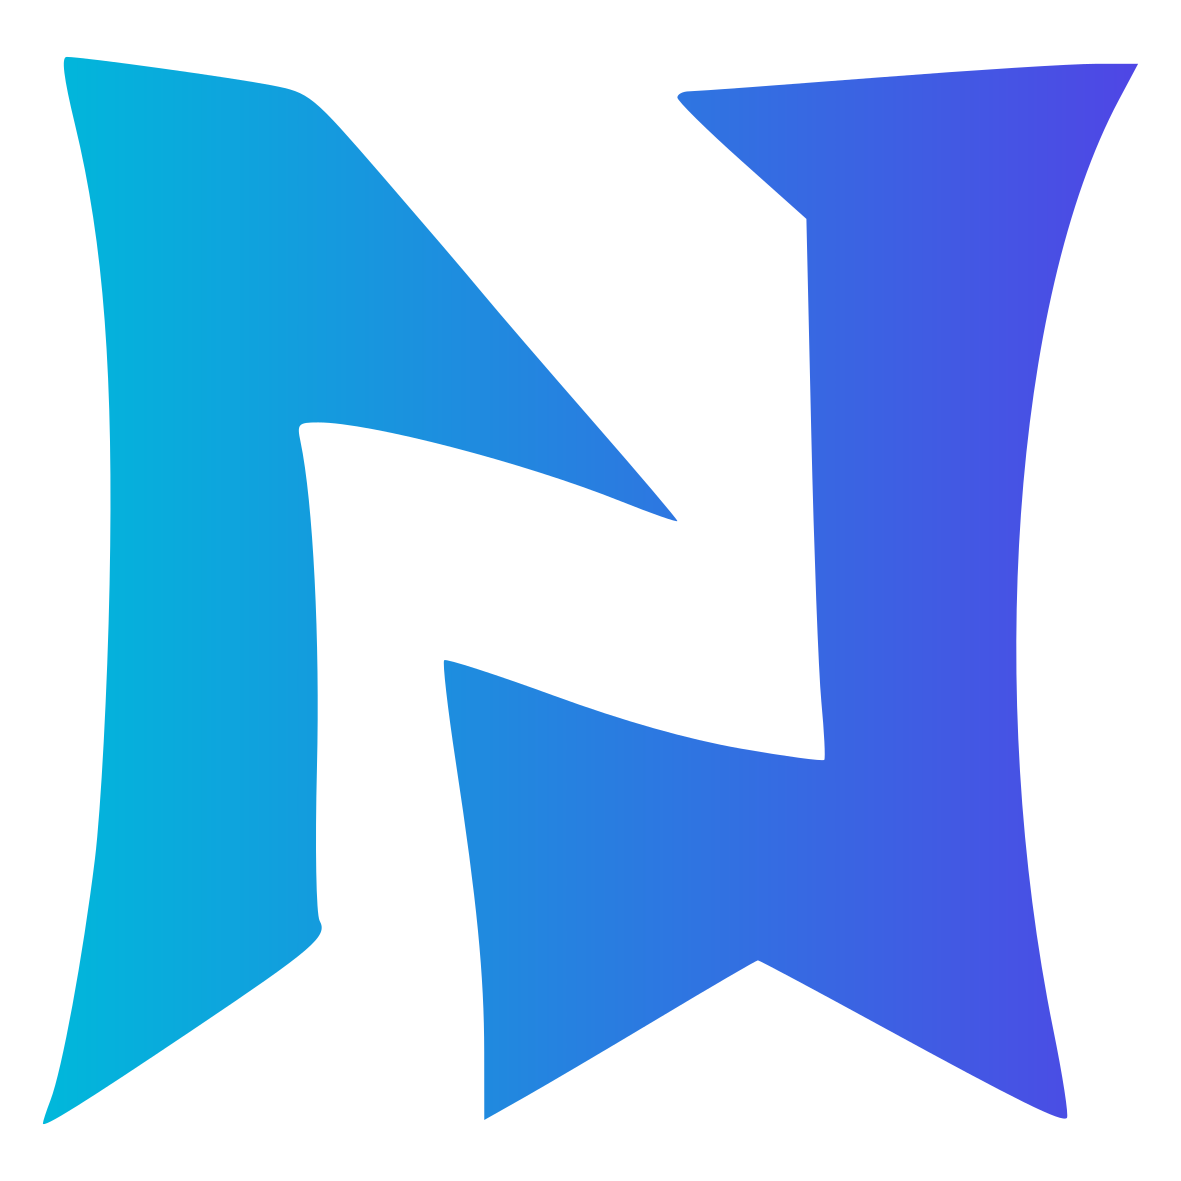
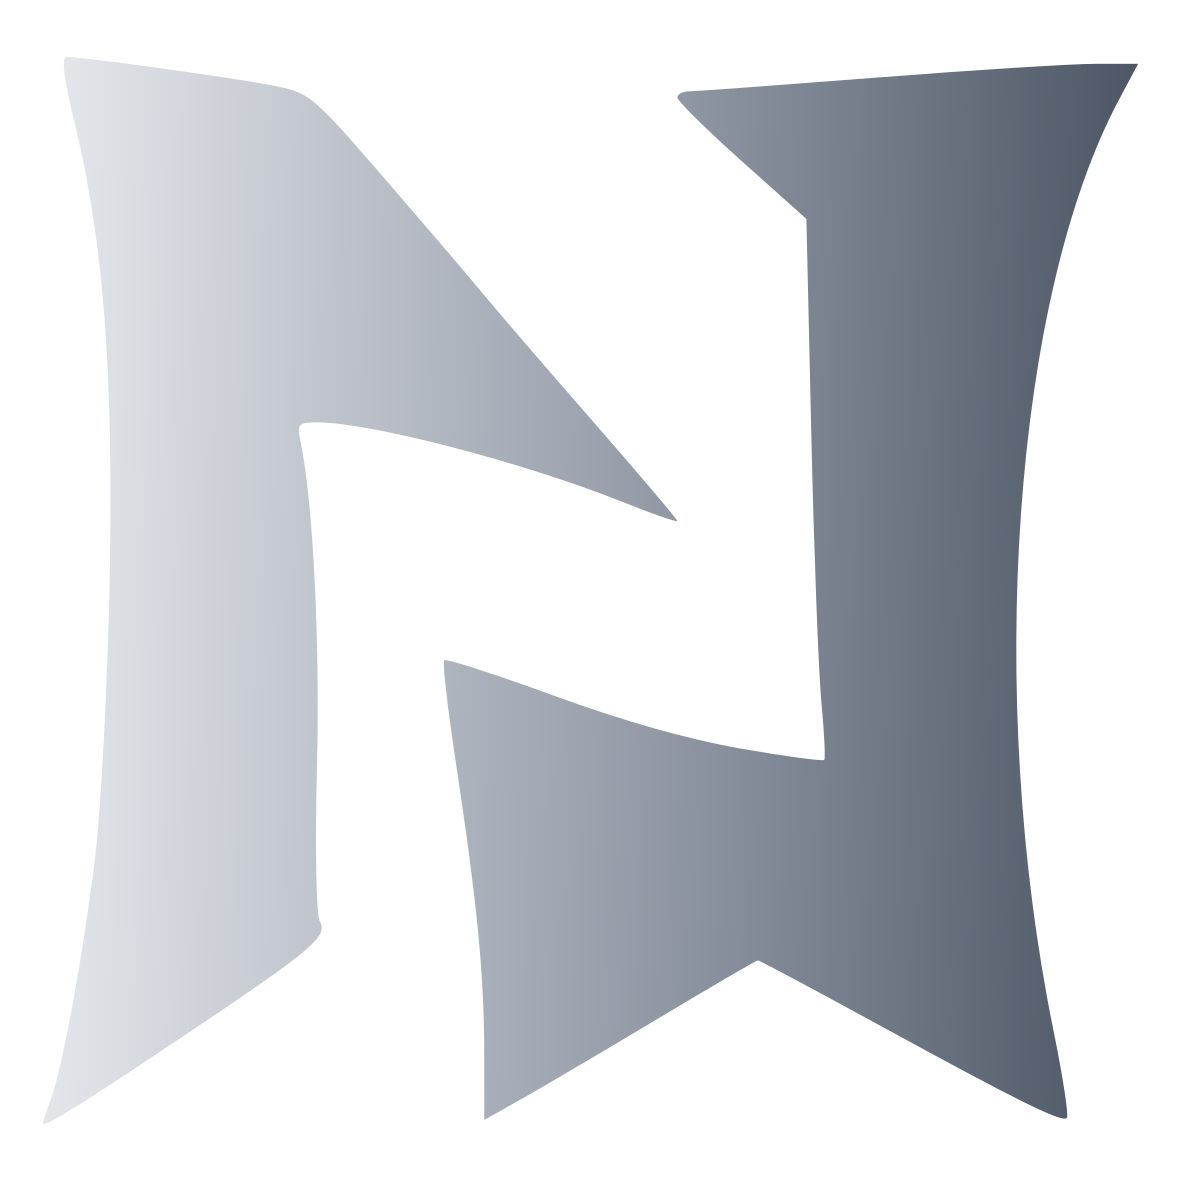
made some color changes started working on about me section

diff --git a/src/components/sections/about.tsx b/src/components/sections/about.tsx
@@ -1,7 +1,41 @@
 import React from "react";
+import SectionHeader from "../section-header";
+import Card from "../card";
+import { BookOpenTextIcon, WrenchIcon } from "lucide-react";
+import Image from "next/image";
 
 const AboutSection = () => {
-  return <div>AboutSection</div>;
+  return (
+    <div className="pb-96">
+      <SectionHeader
+        title="About Me"
+        description="Learn about who I am, What I do, and what inspires me"
+      />
+      <div>
+        <Card className="p-6">
+          <div>
+            <BookOpenTextIcon />
+            <h3>Reads</h3>
+            <p>Explore the books shaping my perspectives.</p>
+            <Image
+              src="/assets/book-cover.png"
+              alt="Book Cover"
+              width={400}
+              height={400}
+            />
+          </div>
+        </Card>
+        <Card className="p-6">
+          <div>
+            <WrenchIcon />
+            <h3>Toolbox</h3>
+            <p>Explore the technologies and tools I use.</p>
+          </div>
+          <div></div>
+        </Card>
+      </div>
+    </div>
+  );
 };
 
 export default AboutSection;

diff --git a/src/components/sections/projects.tsx b/src/components/sections/projects.tsx
@@ -35,7 +35,7 @@ const ProjectsSection = () => {
                 </div>
                 <div className="p-8 pt-0 md:p-10 ">
                   <div className="flex">
-                    <h1 className="bg-gradient-to-r from-cyan-500 to-indigo-600 inline-flex font-bold uppercase tracking-widest text-2xl mt-2 gap-2 text-transparent bg-clip-text font-serif md:text-4xl">
+                    <h1 className="text-white inline-flex font-bold uppercase tracking-widest text-2xl mt-2 gap-2  font-serif md:text-4xl">
                       <span>{project.title}</span>
                       <span>&bull;</span>
                       <span>{project.year}</span>

diff --git a/src/components/section-header.tsx b/src/components/section-header.tsx
@@ -6,7 +6,7 @@ interface ISectionHeaderProps {
 const SectionHeader = ({ title, description }: ISectionHeaderProps) => {
   return (
     <>
-      <h2 className="font-serif text-3xl uppercase font-semibold tracking-widest bg-gradient-to-r from-teal-500  to-indigo-600  text-center text-transparent bg-clip-text md:text-5xl mt-6">
+      <h2 className="font-serif text-3xl uppercase font-semibold tracking-widest bg-gradient-to-r from-gray-200 via-gray-400 to-gray-600  text-center text-transparent bg-clip-text md:text-5xl mt-6">
         {title}
       </h2>
       <p className="text-center text-white/60 mt-4 md:text-lg max-w-md mx-auto lg:text-xl">

diff --git a/src/components/sections/header.tsx b/src/components/sections/header.tsx
@@ -13,7 +13,7 @@ import {
 const HeaderSection = () => {
   return (
     <nav className="flex fixed z-50 w-full md:top-3 top-1.5">
-      <div className="lg:container lg:mx-auto w-full flex items-center justify-between border-white/15 rounded-lg bg-white/10 backdrop-blur py-1.5 px-2.5 border mx-1.5 md:mx-3">
+      <div className="lg:container lg:mx-auto w-full flex items-center justify-between border-white/15 rounded-lg bg-white/10 backdrop-blur py-1.5 px-2.5 border mx-1.5 md:mx-3 lg:px-2.5">
         <div>
           <Image
             src="/the-nazzmul.png"

diff --git a/src/components/sections/tape.tsx b/src/components/sections/tape.tsx
@@ -21,7 +21,7 @@ const WORDS = [
 const TapeSection = () => {
   return (
     <section className="py-16 lg:py-24 overflow-x-clip">
-      <div className="bg-gradient-to-r from-cyan-500 to-indigo-600 overflow-x-clip -rotate-3 -mx-1">
+      <div className="bg-gradient-to-r from-gray-200 via-gray-400 to-gray-600 overflow-x-clip -rotate-3 -mx-1">
         <div className="flex [mask-image:linear-gradient(to_right,transparent,black_10%,black_90%,transparent)]">
           <div className="flex flex-none gap-4 py-3">
             {WORDS.map((word) => (

diff --git a/src/components/ui/button.tsx b/src/components/ui/button.tsx
@@ -9,8 +9,7 @@ const buttonVariants = cva(
   {
     variants: {
       variant: {
-        default:
-          "bg-gradient-to-r from-teal-500 to-indigo-600 text-primary-foreground shadow hover:bg-gradient-to-r hover:from-teal-500/80 hover:to-indigo-600/80",
+        default: "bg-white text-primary shadow hover:bg-white/60 shadow-sm",
         destructive:
           "bg-destructive text-destructive-foreground shadow-sm hover:bg-destructive/90",
         outline:

diff --git a/src/app/page.tsx b/src/app/page.tsx
@@ -1,3 +1,4 @@
+import AboutSection from "@/components/sections/about";
 import HeaderSection from "@/components/sections/header";
 import HeroSection from "@/components/sections/hero";
 import ProjectsSection from "@/components/sections/projects";
@@ -12,6 +13,7 @@ export default function Home() {
       <ProjectsSection />
       <TapeSection />
       <TestimonialsSection />
+      <AboutSection />
     </div>
   );
 }
